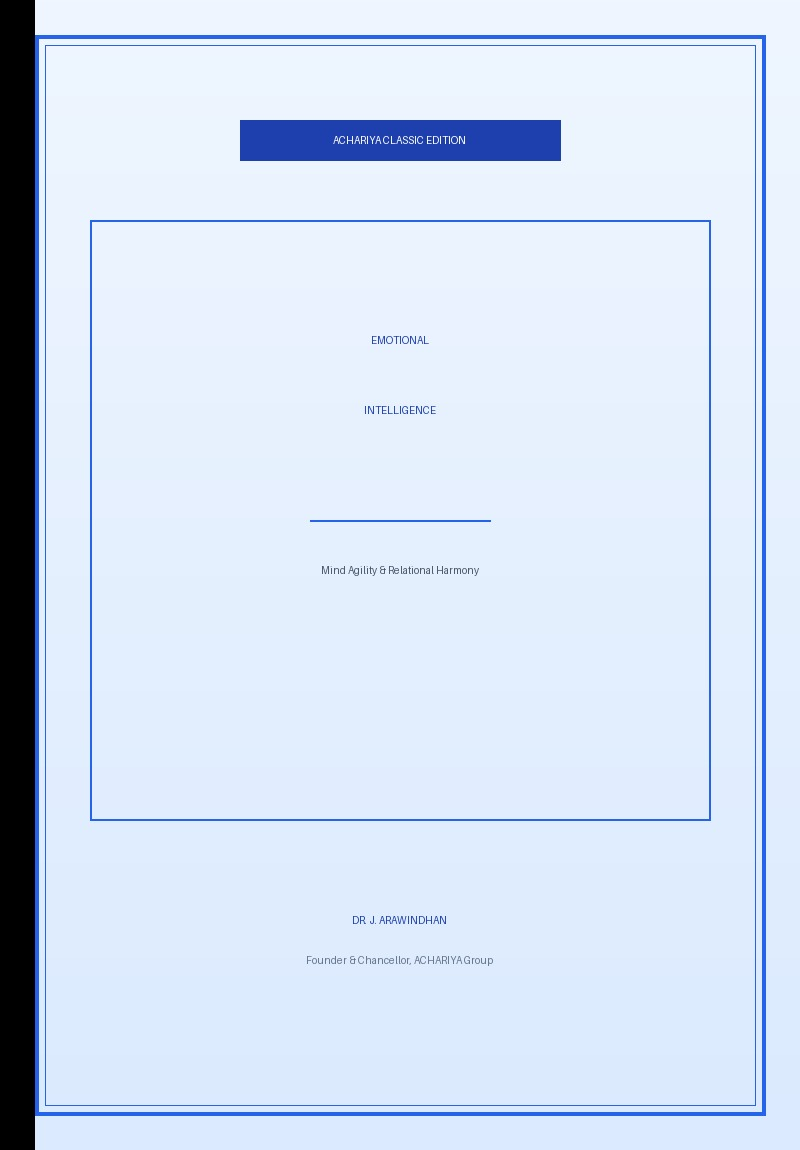
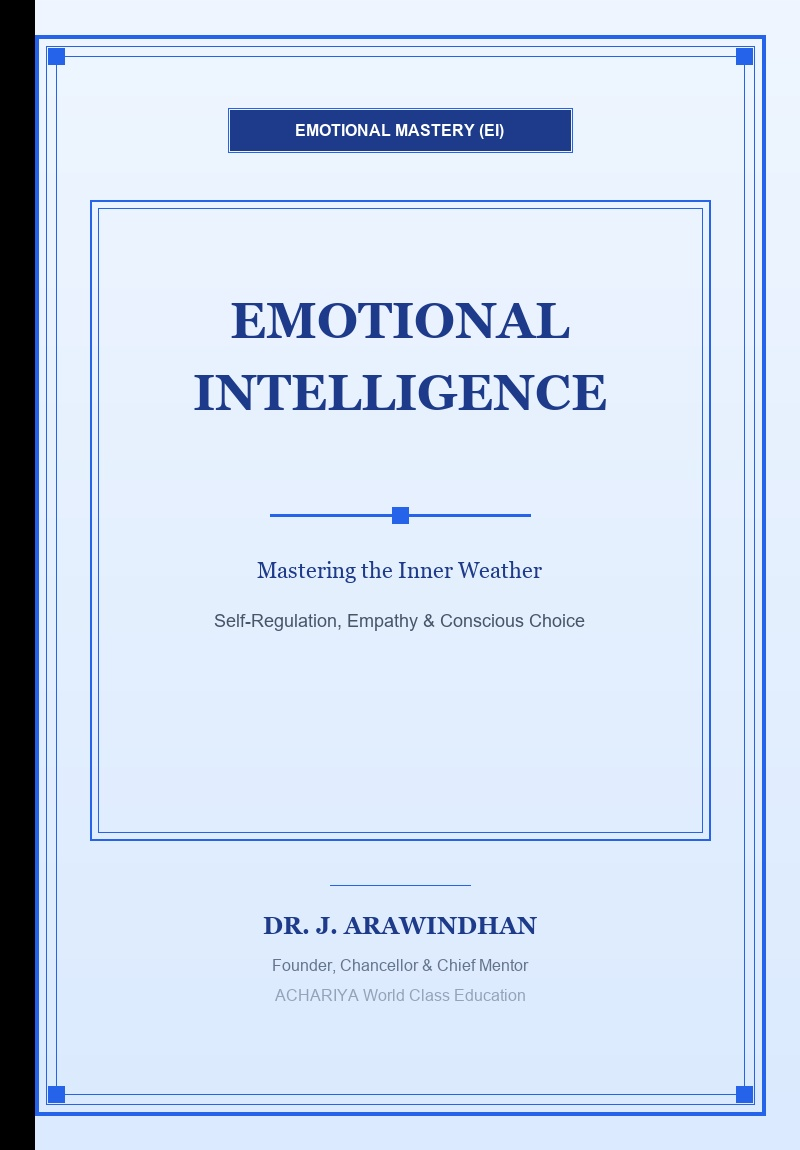
fix(books): laser align book cards, use compact claim badges, and regenerate high-res cover typography

diff --git a/src/app/[lang]/books/page.tsx b/src/app/[lang]/books/page.tsx
@@ -29,10 +29,9 @@ export default async function BooksPage({
 
         <div
           style={{
-            display: 'flex',
-            flexWrap: 'wrap',
-            justifyContent: 'center',
-            gap: '1.75rem',
+            display: 'grid',
+            gridTemplateColumns: 'repeat(auto-fill, minmax(320px, 1fr))',
+            gap: '2rem',
             alignItems: 'stretch',
           }}
         >
@@ -41,34 +40,46 @@ export default async function BooksPage({
               key={book.id}
               className="card-premium"
               style={{
-                flex: '1 1 320px',
-                maxWidth: '370px',
                 display: 'flex',
                 flexDirection: 'column',
                 justifyContent: 'space-between',
                 borderRadius: '16px',
-                padding: '1.75rem',
+                padding: '1.65rem',
                 border: '1px solid #E2E8F0',
                 boxShadow: '0 4px 16px rgba(15, 23, 42, 0.04)',
+                height: '100%',
               }}
             >
               <div>
-                <div style={{ display: 'flex', justifyContent: 'space-between', alignItems: 'center', marginBottom: '0.85rem' }}>
+                {/* Top Status & Verified Badge Row - Laser Aligned */}
+                <div
+                  style={{
+                    display: 'flex',
+                    justifyContent: 'space-between',
+                    alignItems: 'center',
+                    height: '28px',
+                    marginBottom: '1rem',
+                    gap: '0.5rem',
+                  }}
+                >
                   <span
                     style={{
                       background: '#FFFBEB',
                       border: '1px solid #FDE68A',
                       color: 'var(--gold-glow)',
                       fontWeight: 800,
-                      fontSize: '0.78rem',
-                      padding: '0.2rem 0.6rem',
+                      fontSize: '0.72rem',
+                      padding: '0.2rem 0.55rem',
                       borderRadius: 'var(--radius-sm)',
                       textTransform: 'uppercase',
+                      letterSpacing: '0.04em',
+                      whiteSpace: 'nowrap',
+                      lineHeight: 1,
                     }}
                   >
-                    {book.status}
+                    {book.status === 'Ecosystem Edition' ? (lang === 'ta' ? 'நிறுவனப் பதிப்பு' : 'Ecosystem') : (lang === 'ta' ? 'வெளியிடப்பட்டது' : 'Published')}
                   </span>
-                  <ClaimBadge claimId={book.claimId} status="SOURCE_CLAIM" language={lang} />
+                  <ClaimBadge claimId={book.claimId} status="SOURCE_CLAIM" language={lang} compact />
                 </div>
 
                 {/* Book Cover Image */}
@@ -97,20 +108,59 @@ export default async function BooksPage({
                   />
                 </div>
 
-                <h3 className="font-serif heading-gold" style={{ fontSize: '1.35rem', marginBottom: '0.35rem', fontWeight: 800 }}>
+                {/* Book Title - Fixed Baseline */}
+                <h3
+                  className="font-serif heading-gold"
+                  style={{
+                    fontSize: '1.3rem',
+                    marginBottom: '0.4rem',
+                    fontWeight: 800,
+                    minHeight: '3.4rem',
+                    display: 'flex',
+                    alignItems: 'flex-start',
+                    lineHeight: 1.3,
+                  }}
+                >
                   {book.title[lang]}
                 </h3>
 
-                <p style={{ color: 'var(--text-muted)', fontSize: '0.86rem', fontStyle: 'italic', marginBottom: '1rem' }}>
+                {/* Book Tagline - Fixed Baseline */}
+                <p
+                  style={{
+                    color: 'var(--text-muted)',
+                    fontSize: '0.84rem',
+                    fontStyle: 'italic',
+                    marginBottom: '0.85rem',
+                    minHeight: '2.8rem',
+                    display: '-webkit-box',
+                    WebkitLineClamp: 2,
+                    WebkitBoxOrient: 'vertical',
+                    overflow: 'hidden',
+                    lineHeight: 1.45,
+                  }}
+                >
                   {book.tagline[lang]}
                 </p>
 
-                <p style={{ color: 'var(--text-secondary)', fontSize: '0.9rem', lineHeight: 1.7, marginBottom: '1.25rem' }}>
+                {/* Summary - Uniform 4 Lines */}
+                <p
+                  style={{
+                    color: 'var(--text-secondary)',
+                    fontSize: '0.88rem',
+                    lineHeight: 1.65,
+                    marginBottom: '1.25rem',
+                    display: '-webkit-box',
+                    WebkitLineClamp: 4,
+                    WebkitBoxOrient: 'vertical',
+                    overflow: 'hidden',
+                    minHeight: '5.8rem',
+                  }}
+                >
                   {book.summary[lang]}
                 </p>
 
-                {/* Key Themes Chips */}
-                <div style={{ display: 'flex', flexWrap: 'wrap', gap: '0.35rem', marginBottom: '1.5rem' }}>
+                {/* Key Themes Chips - Fixed Height */}
+                <div style={{ display: 'flex', flexWrap: 'wrap', gap: '0.35rem', marginBottom: '1.25rem', minHeight: '1.8rem', alignItems: 'center' }}>
                   {book.keyThemes[lang].slice(0, 2).map((theme, idx) => (
                     <span
                       key={idx}
@@ -122,6 +172,7 @@ export default async function BooksPage({
                         fontWeight: 500,
                         padding: '0.15rem 0.5rem',
                         borderRadius: 'var(--radius-full)',
+                        whiteSpace: 'nowrap',
                       }}
                     >
                       {theme}

diff --git a/scripts/generate_all_covers.py b/scripts/generate_all_covers.py
@@ -1,0 +1,216 @@
+import os
+from PIL import Image, ImageDraw, ImageFont
+
+books_dir = os.path.join('public', 'images', 'books')
+os.makedirs(books_dir, exist_ok=True)
+
+out_books_dir = os.path.join('out', 'images', 'books')
+if os.path.exists('out'):
+    os.makedirs(out_books_dir, exist_ok=True)
+
+# System fonts
+font_georgia_bold = r'C:\Windows\Fonts\georgiab.ttf'
+font_georgia = r'C:\Windows\Fonts\georgia.ttf'
+font_arial_bold = r'C:\Windows\Fonts\arialbd.ttf'
+font_arial = r'C:\Windows\Fonts\arial.ttf'
+
+title_font = ImageFont.truetype(font_georgia_bold, 50)
+title_font_lg = ImageFont.truetype(font_georgia_bold, 56)
+tagline_font = ImageFont.truetype(font_georgia, 22)
+sub_font = ImageFont.truetype(font_arial, 18)
+badge_font = ImageFont.truetype(font_arial_bold, 16)
+author_font = ImageFont.truetype(font_georgia_bold, 24)
+cred_font = ImageFont.truetype(font_arial, 16)
+
+all_covers = [
+    {
+        'file': 'wow_parenting.jpg',
+        'badge': 'PARENTING & FAMILY HARMONY',
+        'title': 'WOW\nPARENTING',
+        'tagline': 'School & Family Working as One',
+        'sub': 'Because Learning Ends at Home',
+        'theme_color': (146, 64, 14),      # Amber/Bronze
+        'bg_top': (255, 251, 235),
+        'bg_bot': (254, 243, 199),
+        'accent': (217, 119, 6),
+    },
+    {
+        'file': 'financial_intelligence.jpg',
+        'badge': 'FINANCIAL MASTERY (FI)',
+        'title': 'FINANCIAL\nINTELLIGENCE',
+        'tagline': 'Resource Stewardship & Value Creation',
+        'sub': 'Practical Wealth Literacy for the Young Mind',
+        'theme_color': (6, 95, 70),        # Deep Emerald
+        'bg_top': (236, 253, 245),
+        'bg_bot': (209, 250, 229),
+        'accent': (5, 150, 105),
+    },
+    {
+        'file': 'emotional_intelligence.jpg',
+        'badge': 'EMOTIONAL MASTERY (EI)',
+        'title': 'EMOTIONAL\nINTELLIGENCE',
+        'tagline': 'Mastering the Inner Weather',
+        'sub': 'Self-Regulation, Empathy & Conscious Choice',
+        'theme_color': (30, 58, 138),      # Deep Sapphire
+        'bg_top': (239, 246, 255),
+        'bg_bot': (219, 234, 254),
+        'accent': (37, 99, 235),
+    },
+    {
+        'file': 'master_stroke.jpg',
+        'badge': 'EXECUTIVE LEADERSHIP',
+        'title': 'MASTER\nSTROKE',
+        'tagline': 'The Art of Execution',
+        'sub': 'Strategic Leadership & Institutional Architecture',
+        'theme_color': (159, 18, 57),      # Crimson Rose
+        'bg_top': (255, 241, 242),
+        'bg_bot': (254, 205, 211),
+        'accent': (190, 18, 60),
+    },
+    {
+        'file': 'young_scientist.jpg',
+        'badge': 'STEM & EMPIRICAL INQUIRY',
+        'title': 'THE YOUNG\nSCIENTIST',
+        'tagline': 'Igniting Curiosity & Discovery',
+        'sub': 'Hands-On Experimentation in the Classroom',
+        'theme_color': (15, 118, 110),     # Teal Cyan
+        'bg_top': (240, 253, 250),
+        'bg_bot': (204, 251, 241),
+        'accent': (13, 148, 136),
+    },
+    {
+        'file': 'airavatha.jpg',
+        'badge': 'TEACHER CONSCIOUSNESS',
+        'title': 'IRAVADH\n(AIRAVATHA)',
+        'tagline': '21 Levels of Teacher Evolution',
+        'sub': 'The Sacred Dignity of Educational Mentorship',
+        'theme_color': (120, 53, 15),      # Antique Bronze
+        'bg_top': (255, 251, 235),
+        'bg_bot': (253, 230, 138),
+        'accent': (180, 83, 9),
+    },
+    {
+        'file': 'andava_victory_mode.jpg',
+        'badge': 'CONSCIOUSNESS & MASTERY',
+        'title': 'ANDAVA:\nVICTORY MODE',
+        'tagline': 'Switching from Victim to Creator',
+        'sub': 'Engineering Daily Triumph in Life & Work',
+        'theme_color': (153, 27, 27),      # Regal Crimson
+        'bg_top': (255, 245, 245),
+        'bg_bot': (254, 226, 226),
+        'accent': (217, 119, 6),
+    },
+    {
+        'file': 'yoga_of_personality.jpg',
+        'badge': 'ORIGINAL SPEECH TREATISE',
+        'title': 'THE YOGA OF\nPERSONALITY',
+        'tagline': 'Becoming Who You Already Are',
+        'sub': 'The Inner Union of Thought, Action & Magnetism',
+        'theme_color': (30, 58, 138),      # Midnight Blue
+        'bg_top': (240, 246, 255),
+        'bg_bot': (219, 234, 254),
+        'accent': (202, 138, 4),
+    },
+    {
+        'file': 'from_knowing_to_doing.jpg',
+        'badge': 'YOUTH EMPOWERMENT BHARAT',
+        'title': 'FROM KNOWING\nTO DOING',
+        'tagline': 'Four Pillars of Youth Empowerment',
+        'sub': 'Building Skill, Talent & Purpose for Gen Z',
+        'theme_color': (6, 95, 70),        # Deep Emerald
+        'bg_top': (236, 253, 245),
+        'bg_bot': (209, 250, 229),
+        'accent': (180, 83, 9),
+    },
+    {
+        'file': 'lions_bank_account.jpg',
+        'badge': 'WEALTH ARCHITECTURE',
+        'title': "THE LION'S\nBANK ACCOUNT",
+        'tagline': 'Stop Chasing Rats, Start Hunting Deer',
+        'sub': '"Your first salary is not a flex. It is a trap."',
+        'theme_color': (15, 23, 42),       # Obsidian Slate
+        'bg_top': (255, 251, 235),
+        'bg_bot': (254, 243, 199),
+        'accent': (217, 119, 6),
+    },
+    {
+        'file': 'science_of_divine_grace.jpg',
+        'badge': 'SACRED HERITAGE & DHARMA',
+        'title': 'SCIENCE OF\nDIVINE GRACE',
+        'tagline': 'Heavenly Glory via Tirukkuṟaḷ',
+        'sub': 'The Technology of Thiruvarul & Vaan Pugazh',
+        'theme_color': (146, 64, 14),      # Temple Bronze
+        'bg_top': (255, 251, 235),
+        'bg_bot': (253, 230, 138),
+        'accent': (180, 83, 9),
+    },
+]
+
+W, H = 800, 1150
+
+for b in all_covers:
+    out_path = os.path.join(books_dir, b['file'])
+    im = Image.new('RGB', (W, H), b['bg_top'])
+    draw = ImageDraw.Draw(im)
+    
+    # 1. Smooth gradient background
+    for y in range(H):
+        t = y / float(H)
+        r = int(b['bg_top'][0] + (b['bg_bot'][0] - b['bg_top'][0]) * t)
+        g = int(b['bg_top'][1] + (b['bg_bot'][1] - b['bg_top'][1]) * t)
+        bl = int(b['bg_top'][2] + (b['bg_bot'][2] - b['bg_top'][2]) * t)
+        draw.line([(0, y), (W, y)], fill=(r, g, bl))
+    
+    # 2. Multi-tier luxury borders
+    draw.rectangle([35, 35, W-35, H-35], outline=b['accent'], width=4)
+    draw.rectangle([46, 46, W-46, H-46], outline=b['accent'], width=1)
+    draw.rectangle([56, 56, W-56, H-56], outline=b['accent'], width=1)
+    
+    # Corner ornamental squares
+    for (cx, cy) in [(56, 56), (W-56, 56), (56, H-56), (W-56, H-56)]:
+        draw.rectangle([cx-8, cy-8, cx+8, cy+8], fill=b['accent'])
+    
+    # 3. 3D Spine depth on left
+    for x in range(35):
+        alpha = int(45 * (1 - x / 35))
+        draw.line([(x, 0), (x, H)], fill=(0, 0, 0))
+    
+    # 4. Top Category Badge
+    badge_w = 340
+    draw.rectangle([W//2 - badge_w//2, 110, W//2 + badge_w//2, 150], fill=b['theme_color'])
+    draw.rectangle([W//2 - badge_w//2 - 2, 108, W//2 + badge_w//2 + 2, 152], outline=b['accent'], width=1)
+    draw.text((W//2, 130), b['badge'], font=badge_font, fill=(255, 255, 255), anchor='mm')
+    
+    # 5. Inner decorative content frame
+    draw.rectangle([90, 200, W-90, 840], outline=b['accent'], width=2)
+    draw.rectangle([98, 208, W-98, 832], outline=b['accent'], width=1)
+    
+    # 6. Title block with Large TrueType Font
+    lines = b['title'].split('\n')
+    y_start = 380 if len(lines) == 1 else 320
+    curr_font = title_font_lg if len(lines) == 1 else title_font
+    for i, line in enumerate(lines):
+        draw.text((W//2, y_start + i * 72), line, font=curr_font, fill=b['theme_color'], anchor='mm')
+    
+    # 7. Elegant divider with diamond emblem
+    div_y = 515 if len(lines) > 1 else 470
+    draw.line([W//2 - 130, div_y, W//2 + 130, div_y], fill=b['accent'], width=3)
+    draw.polygon([(W//2 - 8, div_y - 8), (W//2 + 8, div_y - 8), (W//2 + 8, div_y + 8), (W//2 - 8, div_y + 8)], fill=b['accent'])
+    
+    # 8. Tagline & Subtitle with TrueType fonts
+    draw.text((W//2, div_y + 55), b['tagline'], font=tagline_font, fill=b['theme_color'], anchor='mm')
+    draw.text((W//2, div_y + 105), b['sub'], font=sub_font, fill=(71, 85, 105), anchor='mm')
+    
+    # 9. Lower Embellishment & Author Credit
+    draw.line([W//2 - 70, 885, W//2 + 70, 885], fill=b['accent'], width=1)
+    draw.text((W//2, 925), 'DR. J. ARAWINDHAN', font=author_font, fill=b['theme_color'], anchor='mm')
+    draw.text((W//2, 965), 'Founder, Chancellor & Chief Mentor', font=cred_font, fill=(100, 116, 139), anchor='mm')
+    draw.text((W//2, 995), 'ACHARIYA World Class Education', font=cred_font, fill=(148, 163, 184), anchor='mm')
+    
+    im.save(out_path, 'JPEG', quality=95, optimize=True)
+    if os.path.exists(out_books_dir):
+        out_copy_path = os.path.join(out_books_dir, b['file'])
+        im.save(out_copy_path, 'JPEG', quality=95, optimize=True)
+    print(f'Generated {out_path}')
+
+print('All 11 book covers regenerated with high-res typography!')
